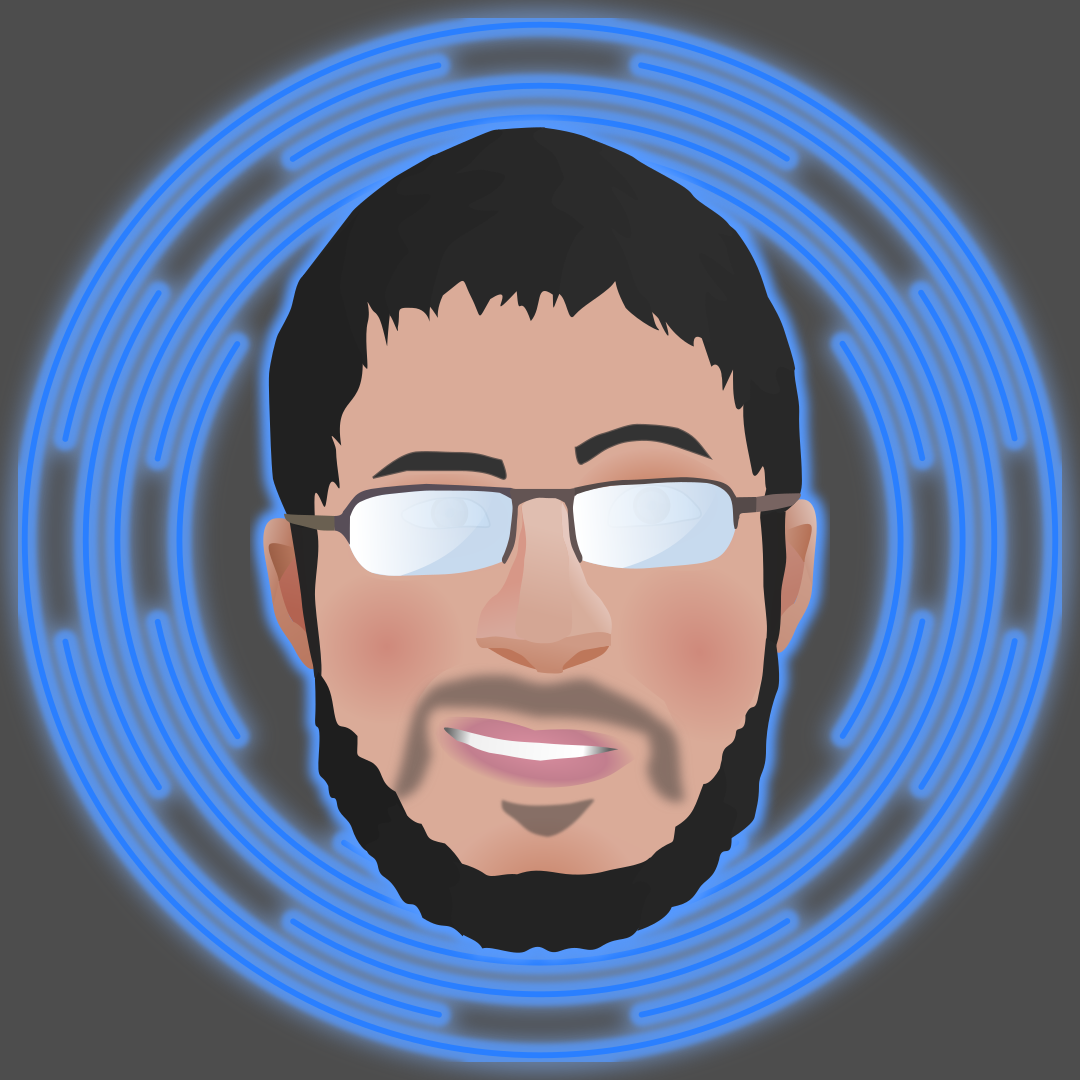
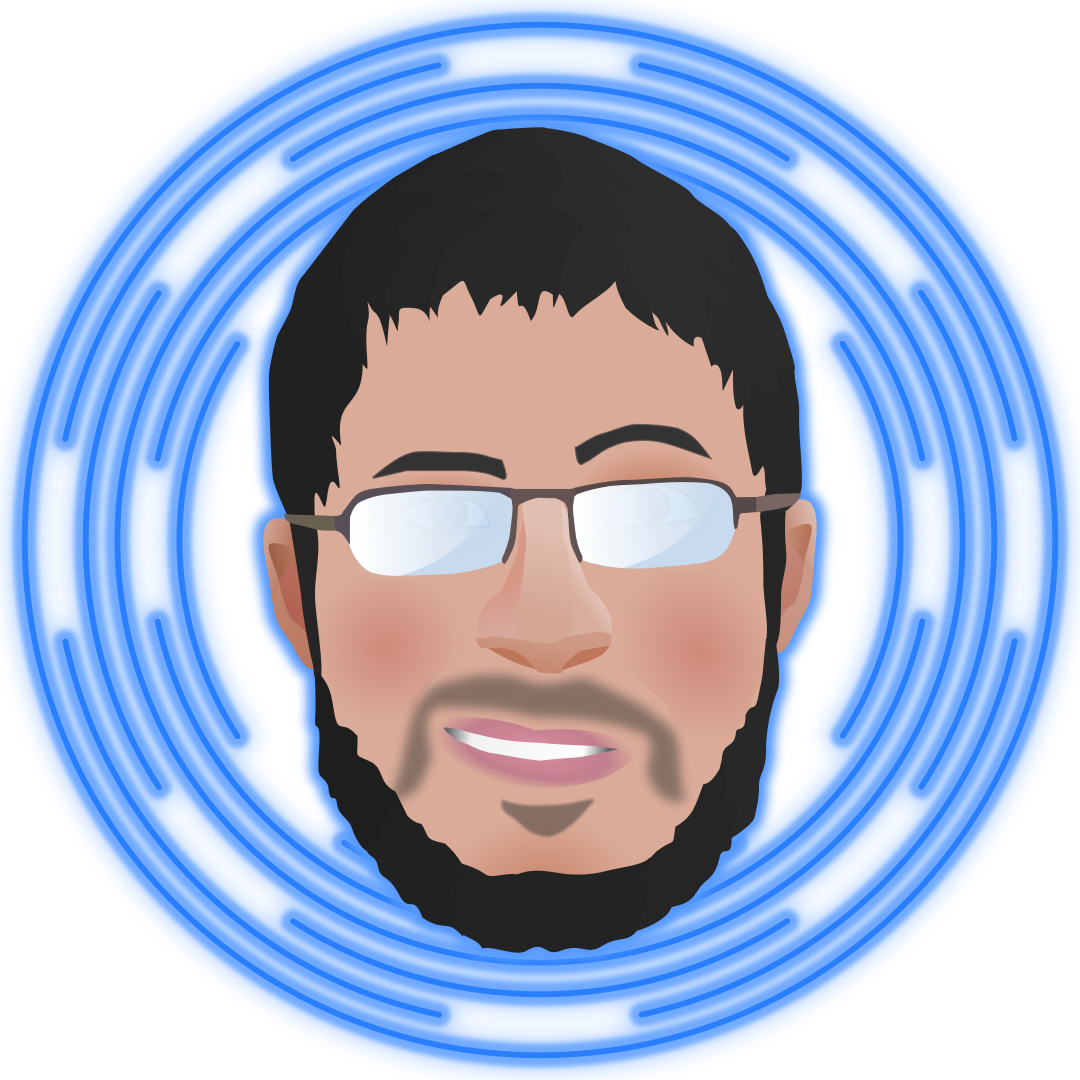
Added the splash screen.

diff --git a/web/index.html b/web/index.html
@@ -1,6 +1,4 @@
-<!DOCTYPE html>
-<html>
-<head>
+<!DOCTYPE html><html><head>
   <!--
     If you are serving your web app in a path other than the root, change the
     href value below to reflect the base path you are serving from.
@@ -27,7 +25,7 @@
   <link rel="apple-touch-icon" href="icons/Icon-192.png">
 
   <!-- Favicon -->
-  <link rel="icon" type="image/png" href="favicon.png"/>
+  <link rel="icon" type="image/png" href="favicon.png">
 
   <title>interactive_cv</title>
   <link rel="manifest" href="manifest.json">
@@ -37,9 +35,92 @@
     const serviceWorkerVersion = null;
   </script>
   <!-- This script adds the flutter initialization JS code -->
-  <script src="flutter.js" defer></script>
+  <script src="flutter.js" defer=""></script>
+  
+  
+  <meta content="width=device-width, initial-scale=1.0, maximum-scale=1.0, user-scalable=no" name="viewport">
+  
+  
+  <style id="splash-screen-style">
+    html {
+      height: 100%
+    }
+
+    body {
+      margin: 0;
+      min-height: 100%;
+      background-color: #edf5fd;
+          background-size: 100% 100%;
+    }
+
+    .center {
+      margin: 0;
+      position: absolute;
+      top: 50%;
+      left: 50%;
+      -ms-transform: translate(-50%, -50%);
+      transform: translate(-50%, -50%);
+    }
+
+    .contain {
+      display:block;
+      width:100%; height:100%;
+      object-fit: contain;
+    }
+
+    .stretch {
+      display:block;
+      width:100%; height:100%;
+    }
+
+    .cover {
+      display:block;
+      width:100%; height:100%;
+      object-fit: cover;
+    }
+
+    .bottom {
+      position: absolute;
+      bottom: 0;
+      left: 50%;
+      -ms-transform: translate(-50%, 0);
+      transform: translate(-50%, 0);
+    }
+
+    .bottomLeft {
+      position: absolute;
+      bottom: 0;
+      left: 0;
+    }
+
+    .bottomRight {
+      position: absolute;
+      bottom: 0;
+      right: 0;
+    }
+
+    @media (prefers-color-scheme: dark) {
+      body {
+        background-color: #2a2e32;
+          }
+    }
+  </style>
+  <script id="splash-screen-script">
+    function removeSplashFromWeb() {
+      document.getElementById("splash")?.remove();
+      document.getElementById("splash-branding")?.remove();
+      document.body.style.background = "transparent";
+    }
+  </script>
 </head>
 <body>
+  <picture id="splash">
+      <source srcset="splash/img/light-1x.png 1x, splash/img/light-2x.png 2x, splash/img/light-3x.png 3x, splash/img/light-4x.png 4x" media="(prefers-color-scheme: light)">
+      <source srcset="splash/img/dark-1x.png 1x, splash/img/dark-2x.png 2x, splash/img/dark-3x.png 3x, splash/img/dark-4x.png 4x" media="(prefers-color-scheme: dark)">
+      <img class="center" aria-hidden="true" src="splash/img/light-1x.png" alt="">
+  </picture>
+  
+  
   <script>
     window.addEventListener('load', function(ev) {
       // Download main.dart.js
@@ -55,5 +136,6 @@
       });
     });
   </script>
-</body>
-</html>
+
+
+</body></html>
